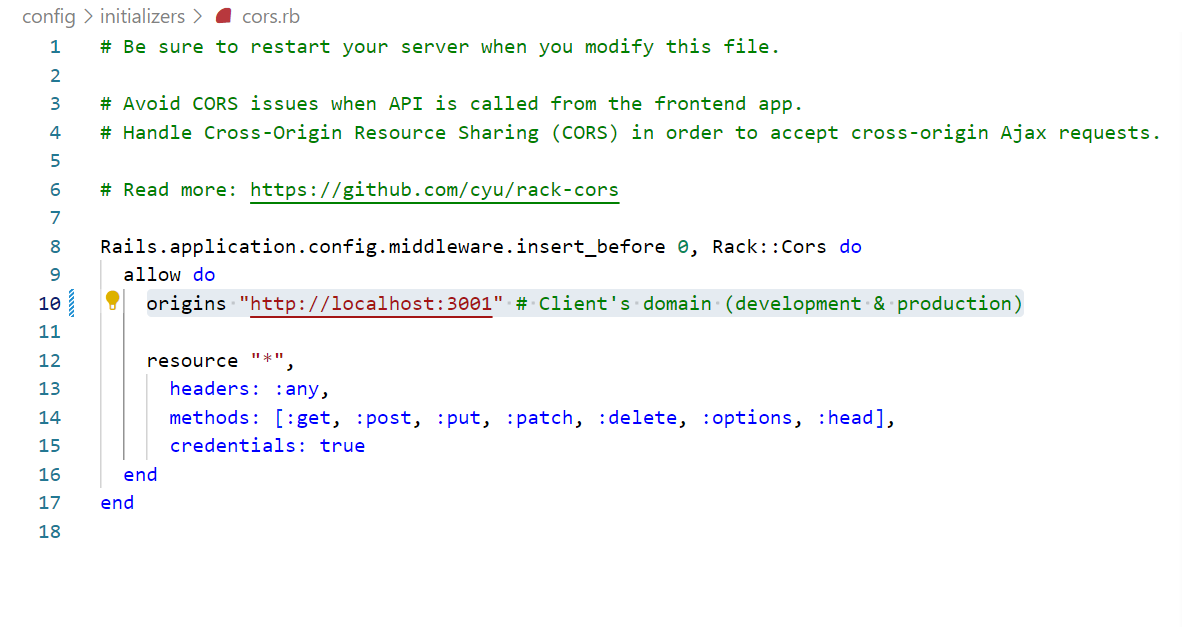
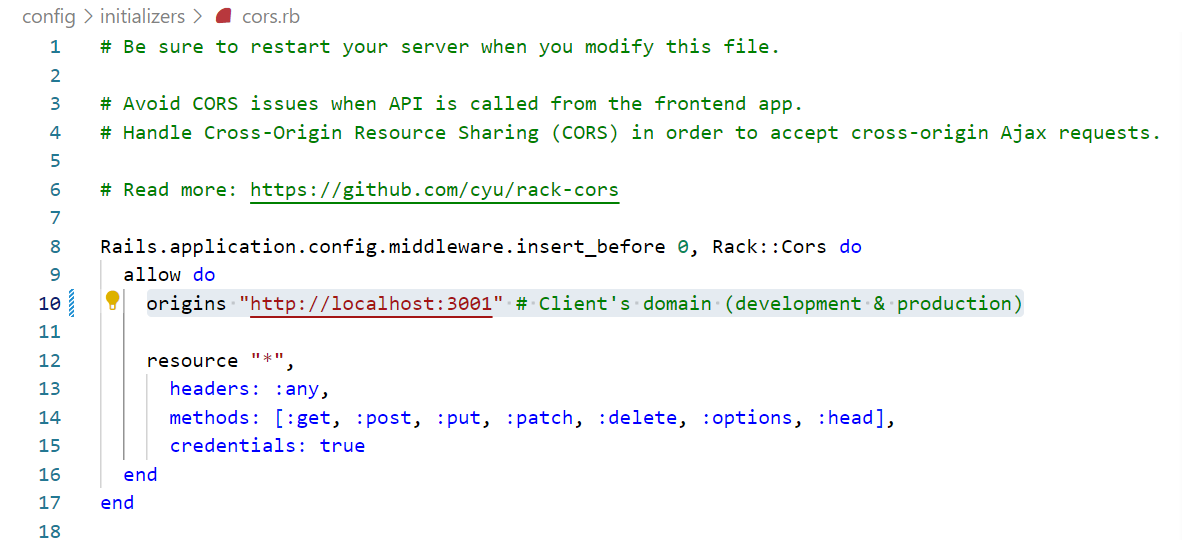
edited cors.rb

diff --git a/config/initializers/cors.rb b/config/initializers/cors.rb
@@ -7,7 +7,7 @@
 
 Rails.application.config.middleware.insert_before 0, Rack::Cors do
   allow do
-    origins "http://localhost:3001" # Client's domain (development & production)
+    origins "http://localhost:3001","https://659ad4404cfc79a95c7e8c52--ubiquitous-salmiakki-81527d.netlify.app/" # Client's domain (development & production)
 
     resource "*",
       headers: :any,

diff --git a/README.md b/README.md
@@ -25,10 +25,10 @@ rbenv install 3.2.2
 bundle install
 ```
 
-6. Edit config/initializers/cors.rb to add front-end development and production url(s).
+6. Edit **config/initializers/cors.rb** to add your frontend client url(s).
    ![Cors](public/images/Cors.png)
 
-7. Edit config/database.yml to add configure postgres database. For more information, refer to this [tutorial](https://www.digitalocean.com/community/tutorials/how-to-use-postgresql-with-your-ruby-on-rails-application-on-ubuntu-20-04).
+7. Edit **config/database.yml** to configure postgres database. For more information, refer to this [tutorial](https://www.digitalocean.com/community/tutorials/how-to-use-postgresql-with-your-ruby-on-rails-application-on-ubuntu-20-04).
 
 8. Initialize the database
 ```shell
